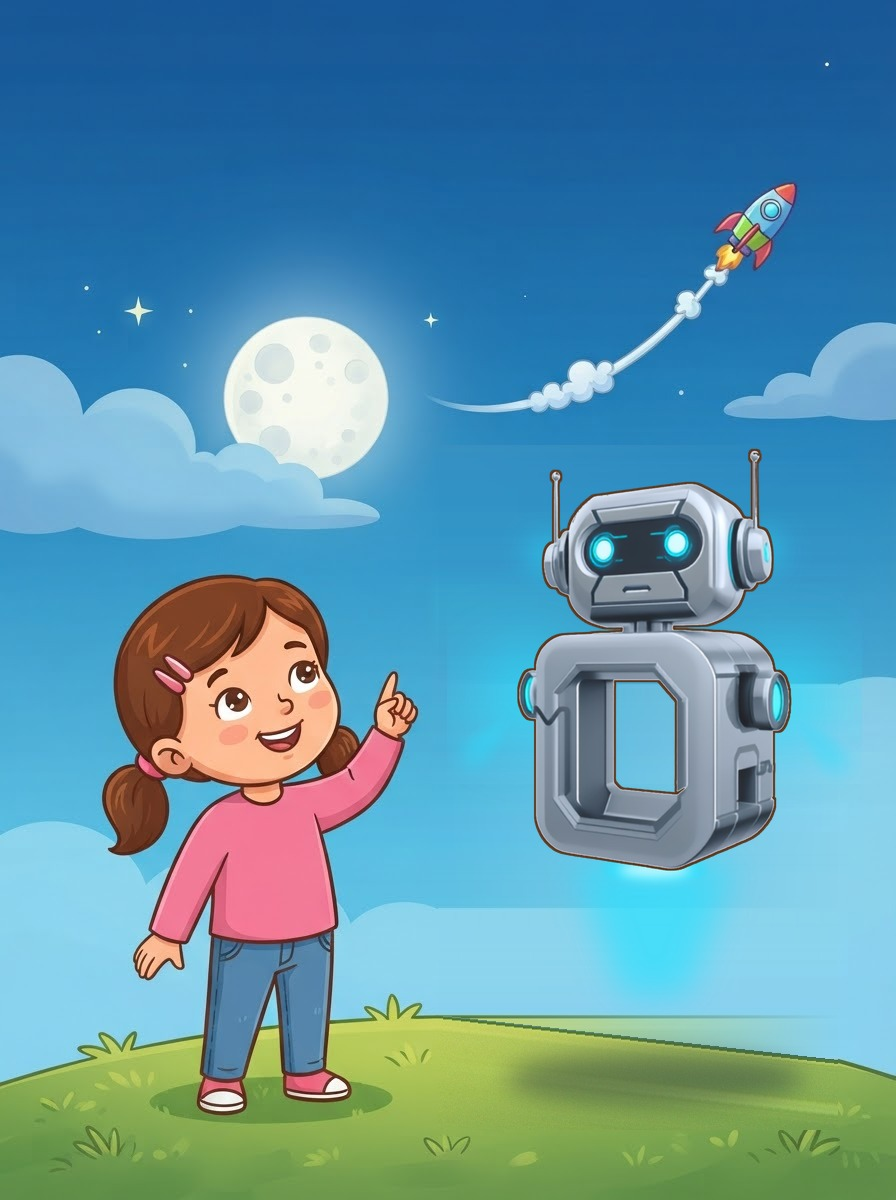
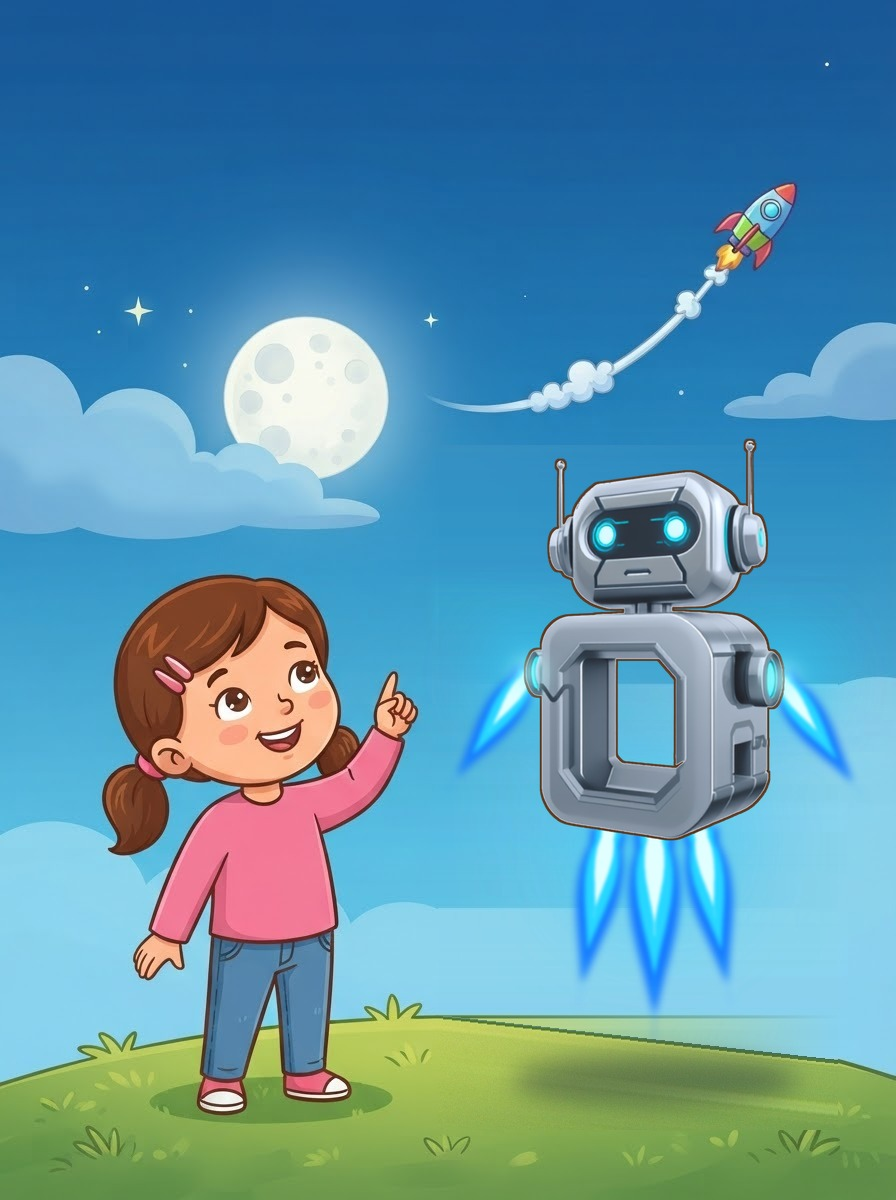
R fasikülü: Dijo yalnızca kapakta, alevli kapak

Changed region(s): [[0.5, 0.37, 0.9688, 0.8633]]

diff --git a/gorseller/r/OKU-BENI.md b/gorseller/r/OKU-BENI.md
@@ -28,3 +28,8 @@ Fasikülün içinde Dijo yalnızca ana depodaki logo.png (gerçek Dijo) olarak k
 | metin-roket-ucan-dijo.jpg | Roket metni (kullanılacak) — Dijo pencerenin önünde uçuyor |
 | metin-kar-ucan-dijo.jpg | Kar metni (kullanılacak) — Dijo gökyüzünde uçuyor |
 Uçan gerçek Dijo şeffaf PNG: gorseller/dijo-gercek/dijo-ucan-seffaf.png (yan ışıklardan ve alttan camgöbeği ışık, kahverengi kontur). Sayfa başları, şarj çubuğu, R'yi tanıyalım ve sertifikada bu ya da ana depodaki logo.png kullanılır. Hasan'ın isteği: Dijo yere basmasın, hafif havalansın, küçük olsun.
+
+## KESİN KARAR (24 Kasım 2026, 23:22) — Hasan: "Dijo'yu sadece kapağa koyabilirdin"
+- KAPAK: kapak-ucan-dijo.jpg (gerçek Dijo uçuyor; yanlardan ve alttan belirgin mavi alev). Sahne görsellerinden YALNIZCA kapakta Dijo var.
+- Roket metni: metin-roket-robotsuz.jpg · Kar metni: metin-kar-robotsuz.jpg · Nar: metin-nar.jpg · 3 Aralık: 3-aralik-el-ele.jpg (hiçbirinde robot yok). metin-*-ucan-dijo.jpg KULLANILMAZ.
+- Fasikül içinde Dijo yalnızca plandaki öğelerde: köşedeki şarj çubuğu, Dijo'nun antenlerinde heceler, Dijo'nun ekranındaki görsel dikte, Dijo'nun şifresi, sertifika (dijo-gercek/dijo-ucan-seffaf.png ya da logo.png).
